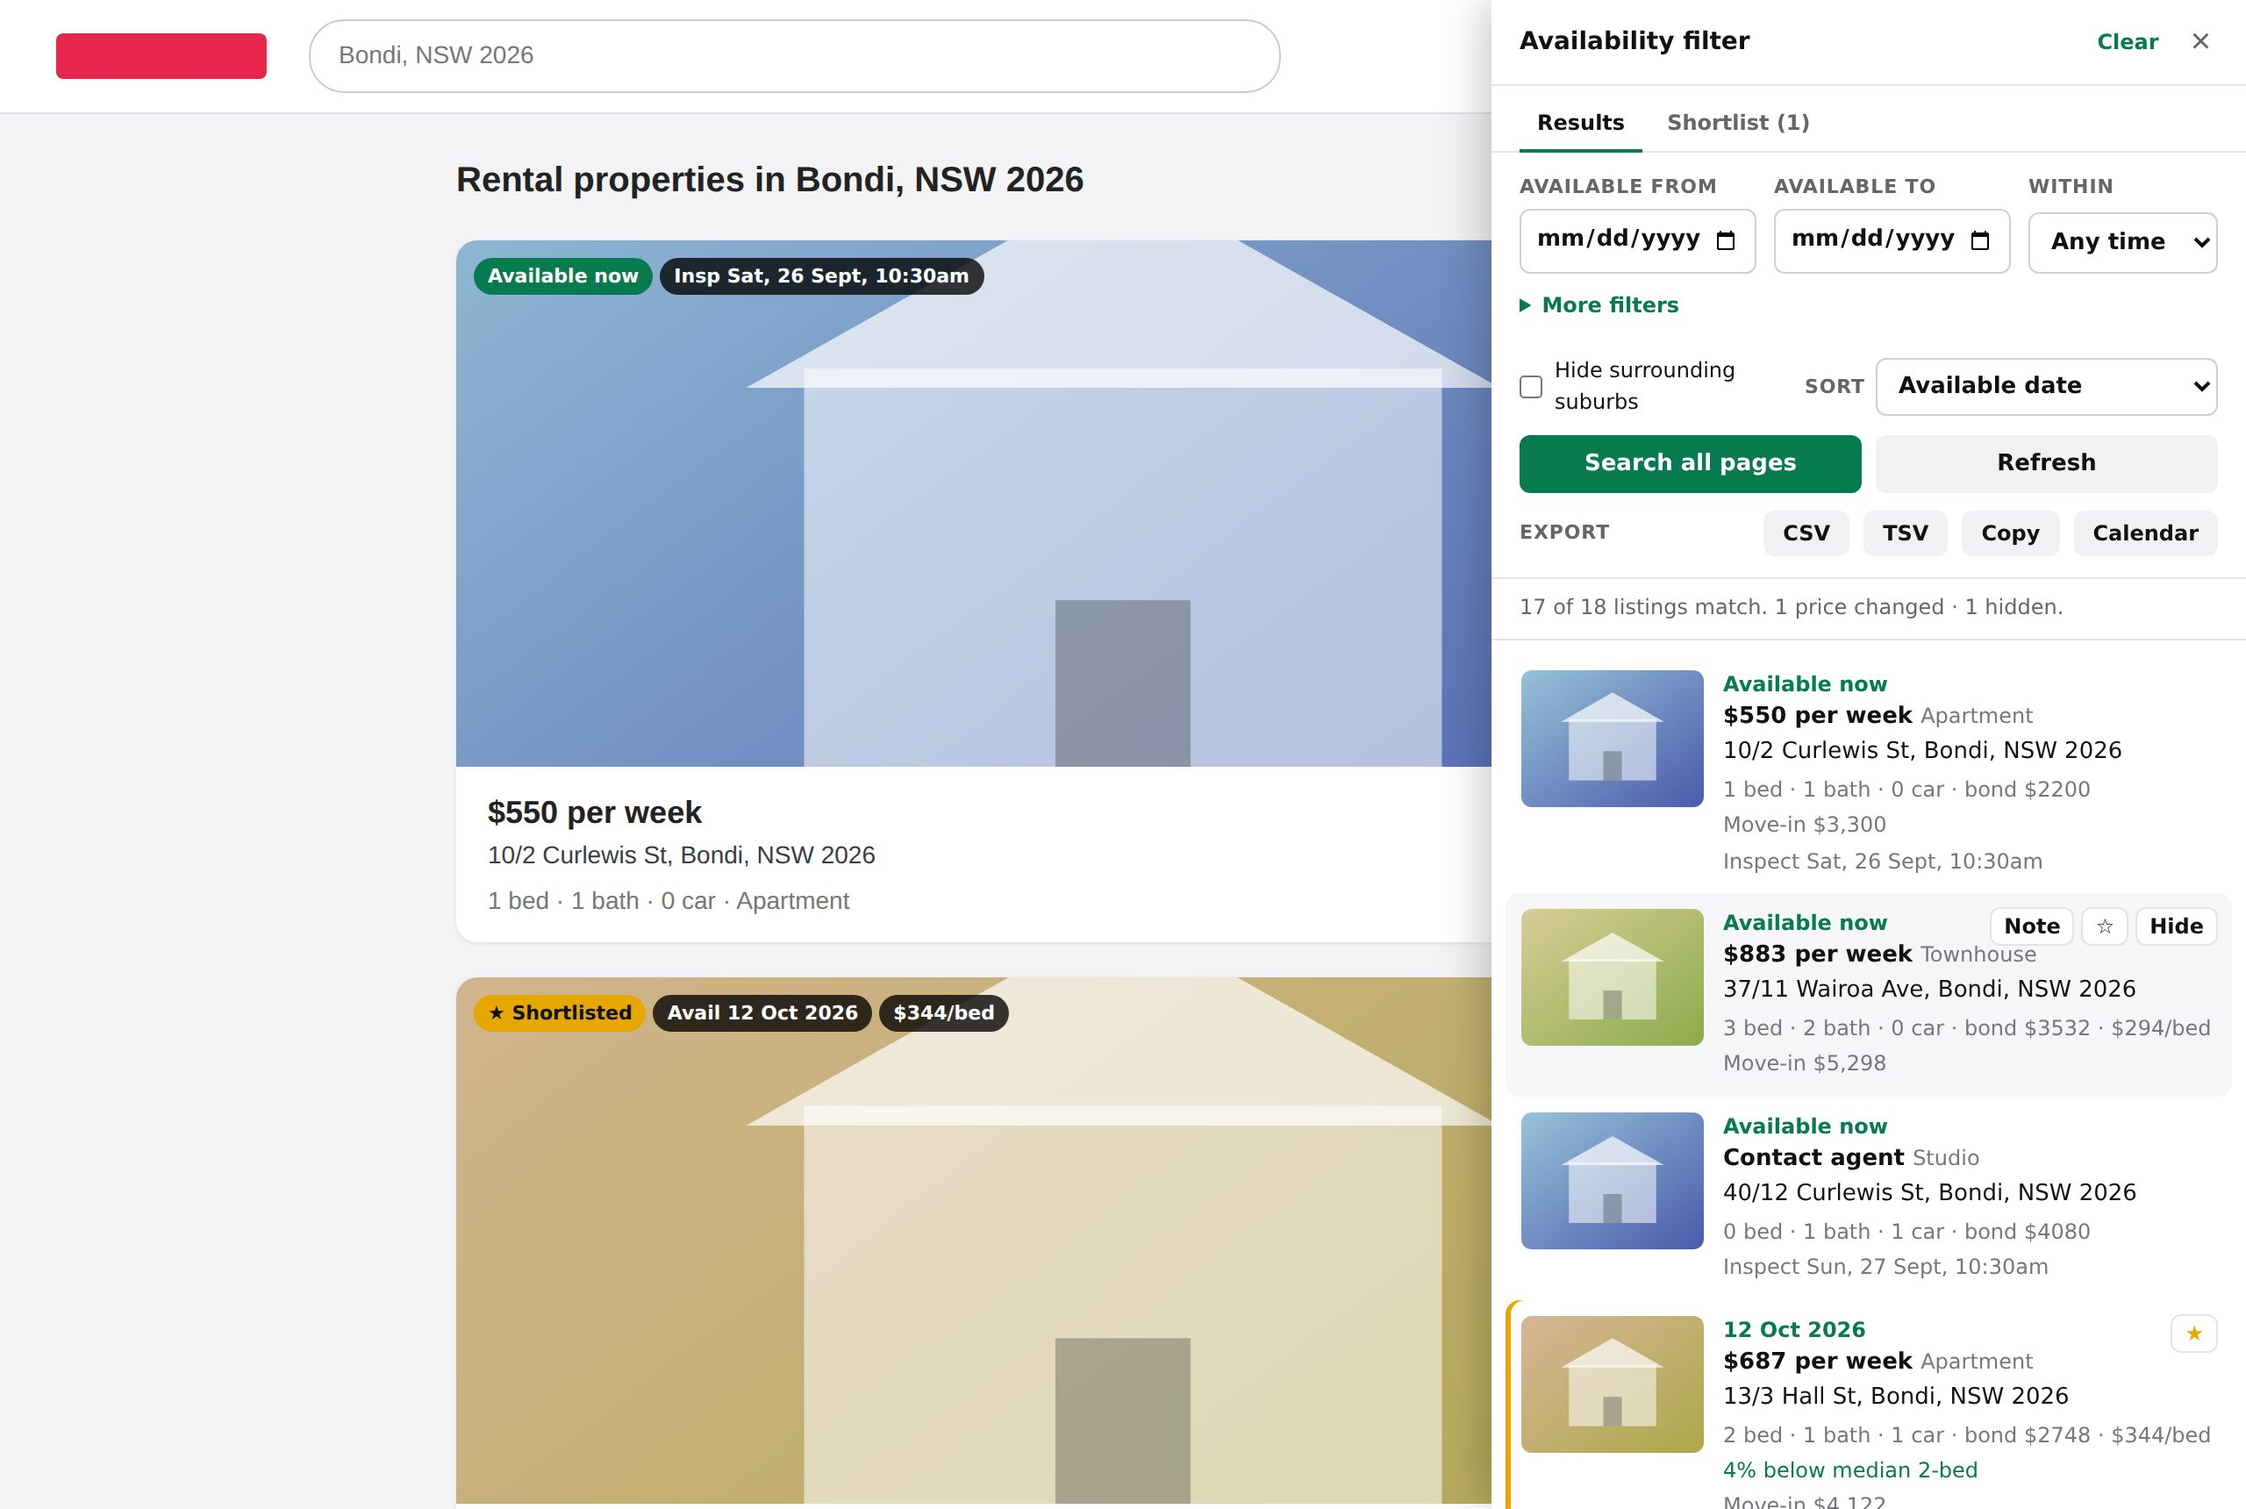
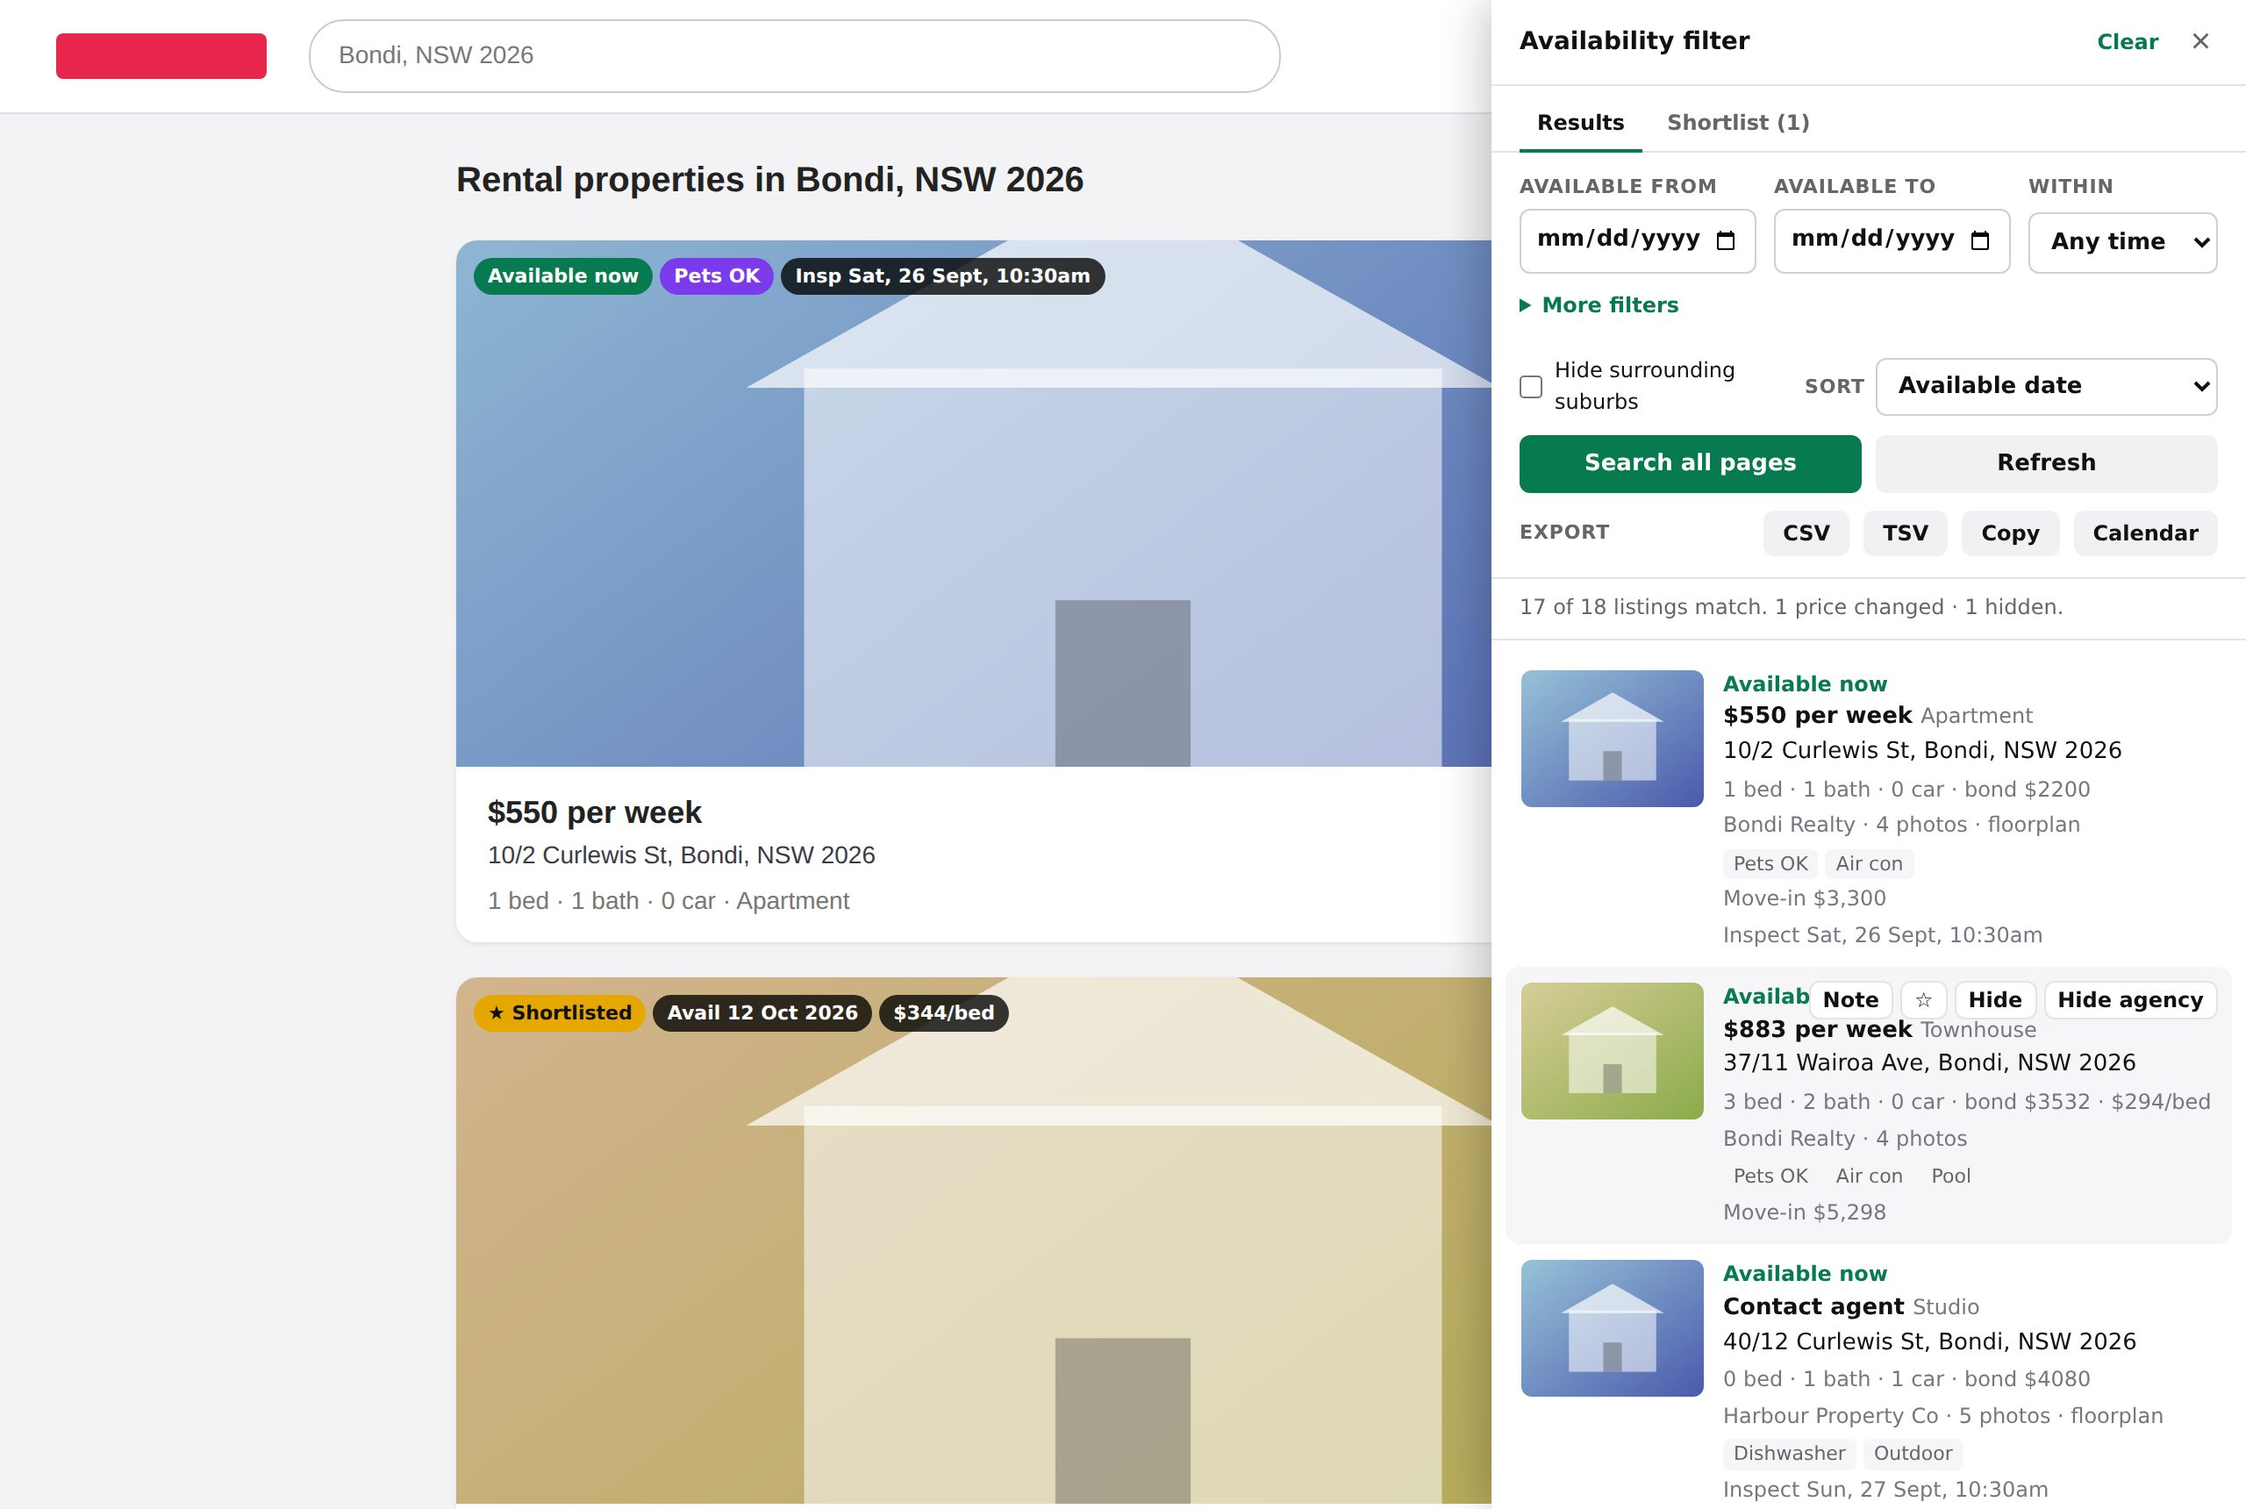
Add shortlist compare table with best-value highlights; shortlist keeps bond, amenities, coords, agency

Changed region(s): [[0.6562, 0.5238, 0.9688, 1.0], [0.2812, 0.1541, 0.5, 0.2157], [0.9375, 0.5855, 0.9688, 0.6163]]

diff --git a/rea-availability-filter.user.js b/rea-availability-filter.user.js
@@ -47,6 +47,7 @@
   const ANNOTATE_MAX_WAIT_MS = 500;
   const KNOWN_MAX = 2000;
   const RENDER_CHUNK = 100;
+  const COMPARE_MAX = 6;
   const PAGE_MEMO_MAX = 12; // raw REA page results are large (~0.3-1MB parsed); keep a few
   const ROWS_PREFIX = 'rea-avail-filter/rows/';
   const ROWS_VERSION = 7; // bump when toRow() shape changes
@@ -160,6 +161,8 @@
     u: safeUrl(r.url), a: clip(r.address), p: clip(r.price, 80), v: clip(r.available, 80), i: safeUrl(r.img),
     t: clip(r.type, 40), b: scalar(r.beds), ba: scalar(r.baths), c: scalar(r.cars), su: clip(r.suburb, 80),
     in: cleanInspections(r.inspections),
+    bo: clip(r.bond, 40), la: typeof r.lat === 'number' ? r.lat : null, ln: typeof r.lng === 'number' ? r.lng : null,
+    am: AMENITIES.filter((a) => r.amen?.[a.id] === 'yes').map((a) => a.id), ag: clip(r.agency, 80),
   });
   const APP_STATUSES = ['', 'to inspect', 'inspected', 'applied', 'approved', 'declined'];
   const keep = (e) => e.s || e.h || e.n || e.as;
@@ -174,7 +177,8 @@
   // Stored summary <-> row-shaped fields (one mapping for import, shortlist and summary()).
   const fromSummary = (d) => ({
     url: d.u, address: d.a, price: d.p, available: d.v, img: d.i, type: d.t, beds: d.b, baths: d.ba, cars: d.c, suburb: d.su,
-    inspections: d.in,
+    inspections: d.in, bond: d.bo, lat: typeof d.la === 'number' ? d.la : null, lng: typeof d.ln === 'number' ? d.ln : null, agency: d.ag,
+    amen: Array.isArray(d.am) ? Object.fromEntries(AMENITIES.map((a) => [a.id, d.am.includes(a.id) ? 'yes' : null])) : {},
   });
   const marksStore = (storage, now = () => Date.now()) => {
     let data = null;
@@ -286,7 +290,8 @@
             const d = e.d, priceNum = parsePrice(d.p);
             return {
               ...fromSummary(d), id, suburb: d.su || '', priceNum, available: d.v || '-', avail: parseAvail(d.v),
-              beds: d.b ?? '', baths: d.ba ?? '', cars: d.c ?? '', bond: '', ppb: perBed(priceNum, d.b),
+              beds: d.b ?? '', baths: d.ba ?? '', cars: d.c ?? '', bond: d.bo || '', ppb: perBed(priceNum, d.b),
+              ...moveIn(d.bo, priceNum), agency: d.ag || '',
               starred: true, hidden: !!e.h, note: e.n || '', appStatus: e.as || '', listed: null,
               inspections: cleanInspections(d.in).filter((i) => i.label && (i.at == null || i.at >= now() - INSPECT_GRACE_MS)),
             };
@@ -1209,7 +1214,8 @@
   .rf-tabs button{border:0;background:none;padding:8px 10px;font:600 12px system-ui,sans-serif;color:var(--rf-muted);
     cursor:pointer;border-bottom:2px solid transparent;margin-bottom:-1px}
   .rf-tabs button[aria-selected=true]{color:var(--rf-fg);border-bottom-color:var(--rf-accent)}
-  .rf-sl-bar{display:flex;align-items:center;gap:8px;padding:10px 16px;border-bottom:1px solid var(--rf-line)}
+  .rf-sl-bar{display:flex;flex-wrap:wrap;align-items:center;gap:8px;padding:10px 16px;border-bottom:1px solid var(--rf-line)}
+  .rf-sl-bar .rf-label{flex-basis:100%}
   .rf-sl-bar[hidden],.rf-controls[hidden]{display:none}
   .rf-sl-bar .rf-btn{flex:0 0 auto;padding:6px 11px;font-size:12px}
   .rf-note{margin:-2px 9px 8px 124px;padding:6px 8px;border-radius:6px;background:var(--rf-hover);font-size:12px;
@@ -1236,6 +1242,16 @@
   .rf-agencies{display:flex;flex-wrap:wrap;align-items:center;gap:6px}
   .rf-agencies[hidden]{display:none}
   .rf-agencies .rf-label{margin-right:4px}
+  .rf-compare{overflow-x:auto;padding:4px}
+  #rf-panel.rf-wide{width:min(960px,100vw)}
+  .rf-btn.sec[aria-pressed=true]{background:var(--rf-accent);color:#fff}
+  .rf-compare table{border-collapse:collapse;font-size:12px;min-width:100%}
+  .rf-compare th,.rf-compare td{border-bottom:1px solid var(--rf-line);padding:6px 8px;text-align:left;vertical-align:top;min-width:110px}
+  .rf-compare tbody th{color:var(--rf-muted);font-weight:600;white-space:nowrap;min-width:0;position:sticky;left:0;background:var(--rf-bg)}
+  .rf-compare thead a{color:inherit;text-decoration:none;display:grid;gap:4px;font-weight:600}
+  .rf-compare thead img{width:100%;height:64px;object-fit:cover;border-radius:6px}
+  .rf-compare .rf-best{background:rgba(8,122,80,.12);color:var(--rf-accent-fg);font-weight:700}
+  .rf-na{color:var(--rf-soft)}
   .rf-dist{display:grid;grid-template-columns:1fr 90px;gap:10px}
   .rf-amen{display:flex;flex-wrap:wrap;gap:6px;margin-top:8px}
   .rf-chip{border:1px solid var(--rf-input);background:var(--rf-bg);color:var(--rf-fg);border-radius:999px;padding:4px 10px;
@@ -1340,6 +1356,7 @@
         <button class="rf-btn sec" data-export="ics" title="Shortlisted inspections as a calendar file">Calendar</button>
         <button class="rf-btn sec" data-sl="backup" title="Download shortlist, hidden listings, notes and remembered searches as JSON">Backup</button>
         <button class="rf-btn sec" data-sl="restore" title="Merge a backup file">Restore</button>
+        <button class="rf-btn sec" data-sl="compare" aria-pressed="false" title="Side-by-side table of up to ${COMPARE_MAX}">Compare</button>
         <input type="file" accept="application/json,.json" hidden>
       </div>
       <div class="rf-controls">
@@ -1573,6 +1590,12 @@
       download(`rea-backup-${stamp()}.json`, JSON.stringify(data), 'application/json');
     });
     ui.slBar.querySelector('[data-sl=restore]').addEventListener('click', () => ui.slFile.click());
+    ui.slBar.querySelector('[data-sl=compare]').addEventListener('click', (e) => {
+      ui.compare = !ui.compare;
+      e.currentTarget.setAttribute('aria-pressed', String(ui.compare));
+      ui.panel.classList.toggle('rf-wide', ui.compare);
+      renderShortlist();
+    });
     ui.slFile.addEventListener('change', async () => {
       const f = ui.slFile.files?.[0];
       ui.slFile.value = '';
@@ -1625,6 +1648,7 @@
     ui.controls.hidden = sl;
     ui.slBar.hidden = !sl;
     ui.panel.querySelector('.rf-clear').hidden = sl; // filters don't apply to the shortlist
+    ui.panel.classList.toggle('rf-wide', sl && !!ui.compare);
     if (sl) renderShortlist();
     else if (cache) showResults();
     else { setEmpty(EMPTY_INTRO); setStatus(''); setExport(true); }
@@ -1637,11 +1661,14 @@
 
   function renderShortlist() {
     const rows = shortlistRows();
+    // Distance for the shortlist too (applyFilters isn't run over it).
+    const anchor = parseAnchor(cfg.anchor);
+    for (const r of rows) r.km = anchor && r.lat != null ? Math.round(haversineKm(anchor, r) * 10) / 10 : null;
     ui.rows = rows;
     setExport(rows.length === 0);
-    ui.list.innerHTML = rows.length
-      ? itemsHtml(rows.slice(0, RENDER_CHUNK)) + moreHtml(rows.length - RENDER_CHUNK)
-      : '<div class="rf-empty">No shortlisted listings yet.<br>Use ☆ on any result to add one.</div>';
+    ui.list.innerHTML = !rows.length ? '<div class="rf-empty">No shortlisted listings yet.<br>Use ☆ on any result to add one.</div>'
+      : ui.compare ? compareHtml(rows.slice(0, COMPARE_MAX))
+      : itemsHtml(rows.slice(0, RENDER_CHUNK)) + moreHtml(rows.length - RENDER_CHUNK);
     setStatus(rows.length ? `${rows.length} shortlisted across all searches. Details are as last seen.` : '');
   }
 
@@ -1736,6 +1763,36 @@
     if (!rows.length) return setEmpty('Nothing matches those filters.');
     ui.list.innerHTML = itemsHtml(rows.slice(0, RENDER_CHUNK)) + moreHtml(rows.length - RENDER_CHUNK);
     ui.list.scrollTop = 0;
+  }
+
+  // Side-by-side comparison: one column per listing, best value per row highlighted.
+  const COMPARE_ROWS = [
+    ['Rent', (r) => r.price, (r) => r.priceNum, 'min'],
+    ['Per bed', (r) => ppbLabel(r) || (isFinite(r.ppb) ? `$${r.ppb}` : ''), (r) => r.ppb, 'min'],
+    ['Move-in', (r) => (isFinite(r.upfront) ? `$${r.upfront.toLocaleString('en-AU')}` : ''), (r) => r.upfront, 'min'],
+    ['Available', (r) => r.available, (r) => (r.avail ? +r.avail : Infinity), 'min'],
+    ['Beds · baths · cars', (r) => [r.beds, r.baths, r.cars].map((v) => (v === '' ? '?' : v)).join(' · '), (r) => -(+r.beds || 0), 'min'],
+    ['Distance', (r) => kmLabel(r).replace(' away', ''), (r) => r.km ?? Infinity, 'min'],
+    ['Next inspection', (r) => r.inspections?.[0]?.label || '', null],
+    ['Amenities', (r) => amenityTags(r).join(', '), null],
+    ['Agency', (r) => r.agency || '', null],
+    ['Status', (r) => (r.appStatus ? r.appStatus[0].toUpperCase() + r.appStatus.slice(1) : 'Not started'), null],
+    ['Note', (r) => r.note || '', null],
+  ];
+  function compareHtml(rows) {
+    const best = (score) => {
+      const vals = rows.map(score).filter((v) => isFinite(v));
+      const min = Math.min(...vals);
+      // Only a "best" when it beats something: ties across every listing highlight nothing.
+      return vals.length > 1 && vals.some((v) => v !== min) ? min : null;
+    };
+    const head = rows.map((r) => `<th scope="col"><a href="${esc(r.url)}" target="_blank" rel="noopener">${r.img ? `<img src="${esc(r.img)}" alt="">` : ''}<span>${esc(r.address)}</span></a></th>`).join('');
+    const body = COMPARE_ROWS.map(([label, show, score]) => {
+      const b = score ? best(score) : null;
+      return `<tr><th scope="row">${label}</th>${rows.map((r) => `<td${b != null && score(r) === b ? ' class="rf-best"' : ''}>${esc(show(r)) || '<span class="rf-na">–</span>'}</td>`).join('')}</tr>`;
+    }).join('');
+    return `<div class="rf-compare"><table><thead><tr><td></td>${head}</tr></thead><tbody>${body}</tbody></table></div>` +
+      (ui.rows.length > rows.length ? `<div class="rf-empty">Comparing the first ${rows.length}; filter by status to pick others.</div>` : '');
   }
 
   // Drawer renders in chunks: 500 cards at once is a ~80ms long task on every filter change.

diff --git a/test/e2e/edge.js b/test/e2e/edge.js
@@ -305,6 +305,28 @@ const waitStatus = (p, re, timeout = 15000) => p.waitForFunction((src) => new Re
     await done(page); await ctx.close();
   }
 
+  // 16. Compare table: shortlisted side by side, best values highlighted, toggles back.
+  {
+    const ctx = await browser.newContext();
+    const page = await open(ctx);
+    await page.click('#rf-launch'); await page.click('#rf-run'); await waitStatus(page, /listings match/);
+    const ids = await page.$$eval('.rf-item', (e) => e.slice(0, 3).map((x) => x.dataset.id));
+    for (const id of ids) { await page.hover(`.rf-item[data-id="${id}"]`); await page.click(`.rf-item[data-id="${id}"] >> [data-act=s]`); }
+    await page.click('#rf-more summary');
+    await page.fill('#rf-anchor', '-33.8915, 151.2767'); await page.dispatchEvent('#rf-anchor', 'change');
+    await page.click('[data-view=shortlist]');
+    await page.click('[data-sl=compare]');
+    assert.equal(await page.getAttribute('[data-sl=compare]', 'aria-pressed'), 'true');
+    assert.equal(await page.$$eval('.rf-compare thead th', (e) => e.length), 3);
+    const rowsLabels = await page.$$eval('.rf-compare tbody th', (e) => e.map((x) => x.textContent));
+    assert.ok(['Rent', 'Move-in', 'Distance', 'Amenities', 'Status'].every((l) => rowsLabels.includes(l)));
+    assert.ok(await page.$$eval('.rf-compare .rf-best', (e) => e.length) >= 3, 'best values highlighted');
+    await page.click('[data-sl=compare]');
+    assert.equal(await page.$$eval('.rf-item', (e) => e.length), 3);
+    console.log('compare table: ok');
+    await done(page); await ctx.close();
+  }
+
   assert.deepEqual(errors, [], 'no page errors');
   cov.report(SCRIPT);
   await browser.close();

diff --git a/test/e2e/screenshots.js b/test/e2e/screenshots.js
@@ -54,6 +54,15 @@ const SEARCH = `${ORIGIN}/rent/in-bondi,+nsw+2026/list-1`;
     Object.assign(h.m[146500009], { s: 1, st: new Date('2026-09-23T10:00:00+10:00').getTime() - 864e5, d: { u: `${ORIGIN}/property-apartment-nsw-manly-146500009`, a: '4/21 The Corso, Manly, NSW 2095', p: '$940 per week', v: 'Sat 7th Nov', i: 'https://i2.au.reastatic.net/345x260/fixture/9.svg', t: 'Apartment', b: 2, ba: 2, c: 1 } });
     return h;
   }, act: async (page) => { await page.click('#rf-launch'); await page.click('[data-view=shortlist]'); } });
+  await shot('compare', { act: async (page) => {
+    await search(page);
+    for (const n of [1, 2, 3]) { await page.hover(`.rf-item:nth-child(${n})`); await page.click(`.rf-item:nth-child(${n}) >> [data-act=s]`); }
+    await page.click('#rf-more summary');
+    await page.fill('#rf-anchor', '-33.8915, 151.2767'); await page.dispatchEvent('#rf-anchor', 'change');
+    await page.click('[data-view=shortlist]');
+    await page.selectOption('.rf-item:nth-child(1) select[data-app]', 'applied');
+    await page.click('[data-sl=compare]');
+  } });
   await shot('badges', { seed: history, act: async (page) => { await page.evaluate(() => window.scrollTo(0, 690)); } });
   await shot('drawer', { act: async (page) => { await search(page); await setFrom(page, '2026-10-10'); } });
   await shot('filters', { act: async (page) => {

diff --git a/test/marks.test.js b/test/marks.test.js
@@ -224,3 +224,16 @@ test('marksStore: a genuine relist inherits "hidden" and shows the old price', (
   st.toggle('146500071', 's'); st.decorate(r);
   assert.equal(r[0].hidden, false, 'starring the relist overrides the inherited hide');
 });
+
+test('marksStore: shortlist summary keeps bond, amenities, coords, agency for compare', () => {
+  const st = core.marksStore(mem(), () => 1e12);
+  const r = core.toRow(listing({ id: '146500080', _links: { canonical: { href: 'https://www.realestate.com.au/property-x-146500080' } },
+    description: 'Pets allowed, dishwasher', address: { display: { fullAddress: '1 A St' }, location: { latitude: -33.9, longitude: 151.2 } },
+    listingCompany: { name: 'Acme' } }), false);
+  st.observe([r]); st.toggle(r.id, 's', r);
+  const [s] = st.shortlist();
+  assert.equal(s.upfront, 4500);
+  assert.equal(s.amen.pets, 'yes');
+  assert.equal(s.lat, -33.9);
+  assert.equal(s.agency, 'Acme');
+});
